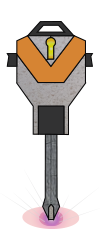
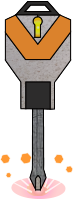
pushing animations, sound effects, changed starShower properties

diff --git a/Ceres/GameScene.swift b/Ceres/GameScene.swift
@@ -19,9 +19,7 @@ class GameScene: SKScene, SKPhysicsContactDelegate, Alerts {
     
     
     
-    //let collectorWait = SKAction.wait(forDuration: 0.75)
-    //let animateCollector = SKAction.animate(with: active, timePerFrame: 0.1, resize: false, restore: true)
-    let gemCollectedSound = SKAction.playSoundFileNamed("pinDrop.mp3", waitForCompletion: false)
+    let gemCollectedSound = SKAction.playSoundFileNamed("hydraulicSound.wav", waitForCompletion: false)
     let gemCreatedSound   = SKAction.playSoundFileNamed("anvil.mp3", waitForCompletion: false)
     
     var backButton = SKSpriteNode()
@@ -69,12 +67,9 @@ class GameScene: SKScene, SKPhysicsContactDelegate, Alerts {
     
     var currSprite: SKNode! = nil
     
-<<<<<<< HEAD
-    
-    
-=======
+
     // TODO: Decompose this method
->>>>>>> 30eb66389f7fe29521c55f30bcfc6036412a5cb6
+
     override func didMove(to view: SKView) {
         // Called immediately after scene is presented.
         
@@ -104,12 +99,9 @@ class GameScene: SKScene, SKPhysicsContactDelegate, Alerts {
         scoreLabel.position = CGPoint(x: size.width * (4/5), y: size.height - size.height/19)
         addChild(scoreLabel)
         
-<<<<<<< HEAD
         
         timerLabel = SKLabelNode(fontNamed: "Menlo-Bold")
-=======
-        timerLabel = SKLabelNode(fontNamed: "American Typewriter")
->>>>>>> 30eb66389f7fe29521c55f30bcfc6036412a5cb6
+
         timerLabel.text = "Time: \(timerSeconds)"
         timerLabel.fontSize = 15
         timerLabel.horizontalAlignmentMode = .right
@@ -180,7 +172,6 @@ class GameScene: SKScene, SKPhysicsContactDelegate, Alerts {
         //gemCollector.isUserInteractionEnabled = false
         addChild(gemCollector)
         
-<<<<<<< HEAD
         
         astronaut.position = CGPoint(x: size.width * 0.25, y: size.height * 0.1)
         astronaut.setScale(0.175)
@@ -189,12 +180,8 @@ class GameScene: SKScene, SKPhysicsContactDelegate, Alerts {
         astronaut.isUserInteractionEnabled = false // Must be set to false in order to register touch events.
         addChild(astronaut)
         
-        gemSource.position = CGPoint(x: astronaut.position.x, y: size.height * 0.1 - astronaut.size.height/5)
+        gemSource.position = CGPoint(x: astronaut.position.x, y: astronaut.position.y - astronaut.size.height/5)
         gemSource.setScale(0.18)
-=======
-        gemSource.position = CGPoint(x: size.width * 0.25, y: size.height * 0.1)
-        gemSource.setScale(0.175)
->>>>>>> 30eb66389f7fe29521c55f30bcfc6036412a5cb6
         gemSource.name = "gemSource"
         gemSource.zPosition = 3
         // Currently using a rectangular body, may change to something more precise later
@@ -217,24 +204,25 @@ class GameScene: SKScene, SKPhysicsContactDelegate, Alerts {
         backgroundMusic.autoplayLooped = true
         addChild(backgroundMusic)
         
-<<<<<<< HEAD
+        // Adjust gravity of scene
+        self.physicsWorld.gravity = CGVector(dx: 0, dy: 0.27) // Gravity on Ceres is 0.27 m/s²
+        
+        //        let gravityFieldNode = SKFieldNode.radialGravityField()
+        //        gravityFieldNode.position = CGPoint(x: size.width / 2, y: size.height / 2)
+        //        addChild(gravityFieldNode)
+
        
     }
     
     private func animateCollector(){
         gemCollector.run(SKAction.repeat(SKAction.animate(with: collectorFrames, timePerFrame: 0.25), count: 1))
+        gemCollector.run(gemCollectedSound)
     }
     
     private func animateHammer(){
         gemSource.run(SKAction.repeat(SKAction.animate(with: hammerFrames, timePerFrame: 0.15), count: 1))
-=======
-        // Adjust gravity of scene
-        self.physicsWorld.gravity = CGVector(dx: 0, dy: 0.27) // Gravity on Ceres is 0.27 m/s²
+        gemSource.run(gemCreatedSound)
         
-//        let gravityFieldNode = SKFieldNode.radialGravityField()
-//        gravityFieldNode.position = CGPoint(x: size.width / 2, y: size.height / 2)
-//        addChild(gravityFieldNode)
-//
     }
     
     private func gemDidCollideWithCollector(gem: SKSpriteNode) {
@@ -242,7 +230,9 @@ class GameScene: SKScene, SKPhysicsContactDelegate, Alerts {
         
         print("Collected")
         gemsCollected = gemsCollected + 1
+        animateCollector()
         gem.removeFromParent()
+        
     }
     
     private func gemOffScreen(gem: SKSpriteNode) {
@@ -281,7 +271,7 @@ class GameScene: SKScene, SKPhysicsContactDelegate, Alerts {
                 gemOffScreen(gem: gem)
             }
         }
->>>>>>> 30eb66389f7fe29521c55f30bcfc6036412a5cb6
+
     }
     
     private func decrementTimer() {
@@ -351,30 +341,30 @@ class GameScene: SKScene, SKPhysicsContactDelegate, Alerts {
     
     private func onGemSourceTouch() {
         addGem()
-        self.run(gemCreatedSound)
         animateHammer()
     }
     
-<<<<<<< HEAD
-    private func onGemTouch(touchedNode: SKNode) {
-        touchedNode.removeFromParent()
-        gemsCollected += 1
-        self.run(gemCollectedSound)
-        animateCollector()
+
+//    private func onGemTouch(touchedNode: SKNode) {
+  //      touchedNode.removeFromParent()
+    //    gemsCollected += 1
+      //  animateCollector()
+    //}
         
-        
-=======
+
     var touchPoint: CGPoint = CGPoint();
     var touching: Bool = false;
     
-    private func onGemTouch(touchedNode: SKNode, touchLocation: CGPoint) {
+    func onGemTouch(touchedNode: SKNode, touchLocation: CGPoint) {
         currSprite = touchedNode //Set the current node touched
         touchPoint = touchLocation
         touching = true
->>>>>>> 30eb66389f7fe29521c55f30bcfc6036412a5cb6
+
     }
     
-    private func onBackButtonTouch() {
+    //I had to change some functions from private to get everything running, should make them private again later.
+    
+    func onBackButtonTouch() {
         
         var wasPaused: Bool
         if self.isPaused {
@@ -393,7 +383,7 @@ class GameScene: SKScene, SKPhysicsContactDelegate, Alerts {
         backAlert(title: "WARNING", message: "You will lose your current progress", resumeAction: resumeAction)
     }
     
-    private func onPauseButtonTouch() {
+    func onPauseButtonTouch() {
         
         if self.isPaused {
             pauseButton.texture = SKTexture(imageNamed:"pause")
